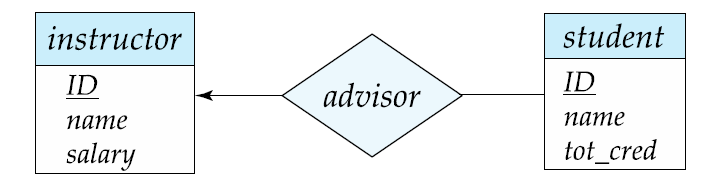
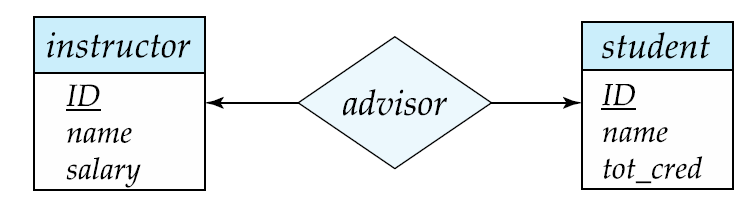
[데이터베이스] 데이터베이스 설계-릴레이션 스키마로의 변환

diff --git a/dongmin/Database System/database-design.md b/dongmin/Database System/database-design.md
@@ -186,4 +186,269 @@ ER Diagram에서는 다음과 같다.
 
         ![https://s3-us-west-2.amazonaws.com/secure.notion-static.com/5dfd24b0-f631-43d4-ac29-15b1ce444072/Untitled.png](./database-design/14.png)
 
-    ## 참가 제약조건(Participation Constraints)
+## 참가 제약조건(Participation Constraints)
+
+- **Total Participation(전체적 참가)**: 엔터티 집합의 모든 엔터티가 적어도 관계 집합의 하나의 관계에 참가한다.
+- **Partial Participation(부분적 참가)**: 어떤 엔터티들은 관계 집합 내의 어떤 관계에도 참가하지 않을 수도 있다.
+
+![https://s3-us-west-2.amazonaws.com/secure.notion-static.com/717ba0d5-3226-4c51-8049-0bb82eb6802f/Untitled.png](./database-design/15.png)
+
+  예) student의 모든 개체는 적어도 한 명의 교수와 연결된다. (전체; ERD에 double line으로 표시)
+
+ 교수가 반드시 학생을 지도할 필요는 없으므로 오직 일부분만이 student 개체와 연결된다. (부분)
+
+## 더 복잡한 제약 조건의 표기법
+
+ 관계를 나타내는 선에 최소 ~ 최대 대응수를 표기할 수 있다.
+
+- total participation의 최소 대응수는 1이다.
+- 최대 대응수 값이 1인 것은 엔터티가 최대 하나의 관계에만 참가한다는 의미이다.
+- 최대 값이 *인 것은 한계가 없다는 의미이다.
+
+![https://s3-us-west-2.amazonaws.com/secure.notion-static.com/33392817-bf77-4368-b482-f7c888a2160f/Untitled.png](./database-design/16.png)
+
+예) instructor 개체 집합은 0명 이상의 student와 연결될 수 있다.
+
+student 개체 집합은 오직 하나의 관계만 instructor의 개체들과 연결될 수 있다.
+
+## 삼진 관계에서의 대응수 제약조건
+
+- 삼진 관계에서는 대응수 제약조건을 나타내기 위해 최대 하나의 화살표를 허용한다.
+- 예를들어, proj_guide에서 instructor로의 화살표는 각 학생이 어떤 프로젝트의 지도자로서 딱 한명의 교수를 가질 수 있다는 의미이다.
+
+![https://s3-us-west-2.amazonaws.com/secure.notion-static.com/4cce18de-5ea1-4798-8847-1037d0515131/Untitled.png](./database-design/17.png)
+
+- 만약 화살표가 하나 이상이 있다면, 해석하는 두 가지 방법이 있다.
+    - 예) 엔터티 집합 A, B, C와 그들간의 삼진 관계 R에서 B와 C로의 화살표 관계가 있다고 하자.
+        1. 각 A 엔터티는 B와 C의 유일한 엔터티와 연관된다.
+        2. (A, B)의 각 엔터티 쌍은 C의 유일한 엔터티와 연결되고, 각 (A,C) 쌍은 유일한 B와 연결된다.
+    - 혼동을 피하기 위해 관계 집합에서 나가는 화살표는 **딱 하나만 허용**한다.
+
+---
+
+## 주 키(Primary Key)
+
+ 주 키는 엔터티와 관계 집합 내에서 각 엔터티나 관계들을 서로 구별하는 방법을 제공해준다.
+
+### 엔터티 집합 내에서의 주 키
+
+- 엔터티의 정의에서, 각 엔터티들은 구분된다.
+- 데이터베이스 관점에서, 그들의 차이점은 속성이라는 측면에서 분명히 드러나야 한다.
+- 엔터티의 속성 값의 값은 엔터티를 유일하게 식별하는 그런 것이어야 한다.
+- 엔터티 집합의 어떤 두 개의 엔터티도 모든 속성들에 대해 정확히 같은 값을 갖도록 하지 않는다.
+- 즉, 엔터티의 키란 **엔터티들을 서로 충분히 구분하는 속성 집합**이다.
+
+### 관계 집합 내에서의 주 키
+
+- 관계 집합에서 관계들을 구분하기 위해 관계 집합에 참여하는 엔터티의 각 주 키를 사용할 수 있다.
+    - R을 관계 집합이라 하고 엔터티 집합 E1, E2, ..., En을 포함한다고 하자.
+    - R의 주 키는 엔터티 집합 E1, E2, ..., En의 조합으로 구성된다.
+    - 만약 관계 집합 R이 그와 관련된 속성 a1, a2, ...am을 갖는다면, R의 주 키는 속성 a1, a2, ..., am을 포함한다.
+- 예) 관계 집합 "advisor"
+    - 주 키는 instructor의 ID와 student의 ID로 구성된다.
+- 관계 집합에서 주 키의 선택은 관계 집합의 대응수에 의존한다.
+
+### 이진 관계에서 주 키의 선택 (연관 관계의 주인)
+
+- **다대다 관계**: 참여하는 엔터티 집합 각각의 주 키의 합집합이 최소 슈퍼키이고 주 키로 선택된다.
+- **일대다 관계**: "다" 쪽의 주 키가 최소 슈퍼키이고 곧 주 키로 사용된다.
+- **다대일 관계**: "다" 쪽의 주 키가 최소 슈퍼키이고 곧 주 키로 사용된다.
+- **일대일 관계**: 두 쪽 모두 주 키가 최소 슈퍼키가 될 수 있고, 두 쪽 모두 주 키로 사용될 수 있다.
+
+### 약성 개체 집합 (Weak Entity Sets)
+
+ 대학 데이터베이스 시스템에서 section(분반)이라는 개체 집합을 예로 든다.
+
+- 분반은 course_id(강의id), semester(학기), year(연도), sec_id(분반id)로 구별된다.
+- 분반 개체들은 강의 개체들과 관계가 있다. 이러한 관계 집합 sec_course를 만든다고 가정한다.
+- 분반은 이미 course_id 속성을 갖고 있기 때문에, sec_course의 정보들은 중복된다.
+    1. 이 중복성을 해결하기 위해 관계 sec_course를 없애는 방법이 있다. 하지만 이럴 경우, 분반과 강의의 관계가 속성 내에서 암시적인 모습으로만 나타나고, 올바른 결과가 아니다.
+    2. 분반 엔터티에 course_id를 저장하지 않음으로써 해결할 수 있다. 오직 남아있는 section_id, year, semester만 저장한다. → section 개체 집합이 어떤 특정 section 개체를 유일하게 식별할 수 있는 속성들을 충분히 갖고 있는 상태가 아니게 된다.
+- sec_course 관계를, section 개체들을 유일하게 식별하는 데 요구되는 추가의 정보를 제공하는 특별한 관계로 간주한다. → **약성 개체 집합** (weak entity set)
+
+즉, 주 키를 형성하기 위한 충분한 속성들을 지니고 있지 않는 개체 집합을 **약성 개체 집합**,
+
+주 키를 가지고 있는 개체 집합을 강성 **개체 집합(strong entity set)**이라고 부른다.
+
+- 모든 약성 개체는 식별 개체와 연관된다; 즉 약성 개체는 식별 개체 집합에 **존재 종속적**이다.
+- 식별 개체 집합은 약성 개체 집합을 **소유한다**고 할 수 있다.
+- 약성 개체 집합과 식별 개체 집합을 연관짓는 관계는 **식별 관계(identifying relationship)**라 한다.
+- 식별 관계는 약성 관계 집합으로부터 식별 관계 집합으로의 다대일이고, 그 관계에서의 약성 관계 집합의 참가는 전체적이다.
+
+     예) section에 대한 식별 개체 집합은 course이고, section 개체들을 상응하는 course 개체들에 연관짓는 sec_course 관계는 식별 관계이다.
+
+- 약성 개체 집합이 주 키를 갖지 않지만, 그럼에도 불구하고 특정 강 개체에 종속하는 약성 개체 집합 내의 모든 개체들을 서로 구별할 수 있는 방법이 필요하다. → 약성 개체 집합의 **구별자 (discriminator)**
+
+     예) 약성 개체 집합 section의 구별자는 sec_id, year, semester 속성들로 이루어진다.
+
+- 약성 개체 집합의 구별자는 개체 집합의 **부분 키(partial key)**라고 불린다.
+- 약성 개체 집합의 주 키는 식별 개체 집합의 주 키와 약성 개체 집합의 구별자를 합하여 만들 수 있다.
+
+     예) section 개체 집합의 경우에 주 키는 { course_id, sec_id, year, semester } 이다.
+
+ERD는 다음과 같이 나타낸다.
+
+![https://s3-us-west-2.amazonaws.com/secure.notion-static.com/c6018312-a78c-482f-80f9-ae04b7386ded/Untitled.png](./database-design/18.png)
+
+---
+
+# 개체 집합에서의 중복된 속성 제거
+
+ 두 개의 개체 집합을 가정한다:
+
+- student: { ID, name, tot_cred, dept_name }
+- department: {dept_name, building, budget }
+
+ student와 department를 연결하는 stud_dept 관계 집합을 이용하여 각각의 학생은 하나의 연관된 부서를 가져야 한다는 사실을 모델링한다.
+
+![https://s3-us-west-2.amazonaws.com/secure.notion-static.com/ddd4a00c-b7e8-4319-a2ab-ec481e7280c8/Untitled.png](./database-design/19.png)
+
+ 그러면 dept_name 속성은 두 개체 집합에 동시에 나타난다. 이 속성은 department 개체 집합에 대한 주 키이기 때문에 student 개체 집합에서는 중복되어 있으며, 따라서 제거될 필요가 있다.
+
+## 대학 데이터베이스 전체 ERD
+
+ 개념적 설계가 끝난 모습이다.
+
+![https://s3-us-west-2.amazonaws.com/secure.notion-static.com/f75a5e72-7dd5-4c16-b01b-7ad23dbb4560/Untitled.png](./database-design/20.png)
+
+---
+
+# 릴레이션 스키마로의 축소
+
+ 
+
+ 엔터티 집합과 관계 집합은 일관된 방식인 **릴레이션 스키마**로 표현 가능하다. 릴레이션 스키마는 데이터베이스의 내용(요소)를 표현한다.
+
+ 즉, 데이터베이스 디자인의 각각의 개체 집합과 각각의 관계 집합을 위해 개체 집합이나 관계 집합의 이름을 붙인 고유한 릴레이션 스키마가 존재한다. 
+
+ ER 모델과 관계형 데이터베이스는 둘 다  실세계의 추상적이고 논리적인 표현이다. 두 가지 모델이 서로 비슷한 설계 원리를 지니므로, E-R 설계를 관계형 설계로 바꿀 수 있다. 각각의 스키마는 수많은 컬럼들을 가지고 그 컬럼의 이름은 유일하다.
+
+## 엔터티 집합 표현
+
+### 단순 속성들을 지닌 강성 엔터티 집합 표현
+
+ 강성 개체인 student 개체 집합을 생각한다.
+
+E라는 강성 개체 집합은 같은 개수의 속성들을 지닌 E라는 이름의 스키마로 표현할 수 있다.
+
+즉, student 개체 집합은 *student(ID, name, tot_cred)* 라는 릴레이션 스키마로 표현된다.
+
+다른 예)
+
+- *classroom(building, room_number, capacity)*
+- *department(dept_name, building, budget)*
+- *course (course_id, title, credits)*
+- *instructor (ID, name, salary)*
+- *student (ID, name, tot_cred)*
+
+### 약성 개체 집합의 표현
+
+ A를 a1, a2, ..., am의 속성들을 가지는 약성 개체 집합이라 하고, B는 A가 의존하는 강성 개체 집합이라 하자. B의 주 키(primary key)가 b1, b2, ..., bn의 속성들로 이루어져 있다면 개체 집합 A는 다음 속성들에 하나씩 대응하는 컬럼들을 가진 A라는 릴레이션 스키마로 표현된다.
+
+$\{ a_1,a_2,...,a_m\} \cup \{b_1,b_2,...,b_n\}$
+
+ 다시 말해서, 관계 집합의 모든 주 키와 약성 개체의 모든 속성들을 합친 속성들을 컬럼으로 나타낸 것이다.
+
+즉, section과 course의 예에서 section은 다음과 같이 표현된다.
+
+*section ( course_id, sec_id, semester, year)*
+
+![https://s3-us-west-2.amazonaws.com/secure.notion-static.com/ab1cd46f-5c3e-4ad4-acc9-74f1dbb69b82/Untitled.png](./database-design/18.png)
+
+### 복합 속성을 지닌 강성 개체 집합의 표현
+
+- 복합 속성 name에 대해 instructor를 위해 생성된 스키마는 first_name, middle_name, last_name 속성들을 가진다.
+- 복합 속성 address에 대해 생성된 스키마는 street, city, state, zip_code를 가진다.
+- street는 또 다시 street_number, street_name, apt_number로 대체된다.
+
+이들을 고려하여 설계된 릴레이션 스키마는 다음과 같다. 다중값 속성은 포함되지 않는다.
+
+ *instructor (ID, first_name, middle_name, last_name, street_number, street_name, apt_number, city, state, zip_code, date_of_birth)*
+
+- 다중값 속성인 M을 위해서는 테이블 관계형 스키마 R을 만들어 주는데, R에서는 M에 대응하는 속성 A와 M이 속성으로 존재하는 개체 집합이나 관계 집합의 주 키에 대응하는 속성들을 가지게 된다.
+
+ 다중값 속성인 phone_number를 위한 릴레이션 스키마는 다음과 같다.
+
+ *instructor_phone (ID, phone_number)*
+
+![https://s3-us-west-2.amazonaws.com/secure.notion-static.com/869c809e-0e1c-4ead-9ea3-2d58ce6f8953/Untitled.png](./database-design/8.png)
+
+## 관계 집합의 표현
+
+ 
+
+ 관계 집합에 대한 주 키를 선택하는 방법은 다음과 같았다.
+
+- 이진 다대다 관계에서는 개체 집합에 참여하는 속성들 중에서 주 키의 합집합이 주 키가 된다.
+- 이진 일대일 관계 집합에서는 한 쪽의 개체 집합의 주 키가 주 키로 선택된다. 이때 선택은 임의로 행해진다.
+- 이진 다대일이나 일대다 관계 집합에서는 관계 집합의 "다(many)"인 부분의 개체 집합 주 키가 주 키로 제공된다.
+- 간선에 어떤 화살표도 없는 n항 관계 집합에서는 참여하는 모든 개체 집합들의 주 키 속성들의 합집합이 주 키가 된다.
+- 간선에 화살표가 있는 n항 관계 집합에서는 관계 집합에서 "화살표"가 없는 부분의 개체 집합의 주 키가 스키마의 주 키로 제공된다. 릴레이션 관계 밖으로는 오직 한 개의 화살표만 허용된다.
+
+ 예) 관계 집합 advisor를 위한 릴레이션 스키마:
+
+*advisor(s_id, i_id)*
+
+ advisor 관계 집합에서 student는 instructor로의 다대일 관계이기 때문에 advisor 스키마의 주 키는 s_id이다. 
+
+![https://s3-us-west-2.amazonaws.com/secure.notion-static.com/3b85c5c9-4c65-4e79-9d09-6ff02b93b284/Untitled.png](./database-design/21.png)
+
+ 나머지 예들,
+
+- *teaches (ID, course_id, sec_id, semester, year)*
+- *takes (ID, course_id, sec_id, semester, year, grade)*
+- *prereq (course_id, prereq_id)*
+- *sec_course (course_id, sec_id, semester, year)*
+- *sec_time_slot (course_id, sec_id, semester, year, time_slot_id)*
+- *sec_class (course_id, sec_id, semester, year, building, room_number)*
+- *inst_dept (ID, dept_name)*
+- *stud_dept (ID, dept_name)*
+- *course_dept (course_id, dept_name)*
+
+### 스키마의 중복성
+
+ 약성 개체 집합과 그에 대응하는 강성 개체 집합을 연결하는 관계 집합은 특별하다.
+
+ 이 관계는 다대일 관계에 있고 설명 속성들을 갖지 않는다. 그리고 약성 개체 집합의 주 키는 강성 개체 집합의 주 키를 포함한다.
+
+ 예) 약성 개체 집합 section은 강성 개체 집합인 coruse에 sec_course라는 관계 집합으로 의존한다.
+
+- section의 주 키는 { course_id, sec_id, semester, year }이고,
+- course의 주 키는 { course_id } 이다.
+- sec_course는 설명 속성을 가지지 않으므로 sec_course 스키마는 course_id, sec_id, semester, year 속성들을 가진다.
+
+ sec_course 릴레이션의 모든 (course_id, sec_id, semester, year)의 조합은 section 스키마에 대한 릴레이션에도 존재하고,  그 역도 성립한다. 그러므로 sec_course 테이블은 불필요하게 중복되었다.
+
+ 일반적으로 약성 개체 집합을 그에 대응하는 강성 집합에 연결하는 **관계 집합을 위한 테이블은** 중복된 것이고, **테이블 표현에서 보일 필요가 없다.**
+
+### 스키마의 조합
+
+ 개체 집합 A에서 개체 집합 B로 가는 다대일 관계 집합 AB를 생각하자.
+
+ 관계형 스키마 구축 알고리즘을 이용하면 A, B, AB의 3개의 스키마를 얻을 수 있다. **A가 관계 AB에 전체적으로 참가**한다고 가정하자. 즉, 개체 집합 A의 모든 개체 a는 관계 AB에 참가한다. 
+
+ 그러면 **스키마 A와 스키마 AB를 조합하여 두 스키마의 열들의 합집합으로 구성되는 하나의 스키마**를 만들 수 있다. 조합된 스키마의 주 키는 관계 집합 스키마가 통합되어 이루어진 그 스키마의 개체 집합의 주 키이다.
+
+- inst_dept (AB), instructor (A), department (B)
+
+    inst_dept 스키마는 instructor 스키마와 조합될 수 있다. instructor 스키마는 
+    *{ ID, name, dept_name, salary }* 속성으로 이루어진다.
+
+- stud_dept (AB), student (A), department (B)
+
+    stud_dept 스키마는 student 스키마와 조합될 수 있다. 결과로 생성되는 student 스키마는 
+    *{ ID, name, dept_name, tot_cred }* 속성으로 이루어진다.
+
+![https://s3-us-west-2.amazonaws.com/secure.notion-static.com/82ff4a6a-12ee-4cb3-a37f-8cf7c395c8fa/Untitled.png](./database-design/22.png)
+
+ 일대일 관계의 경우에도 관계 집합에 대한 릴레이션 스키마가 개체 집합의 한쪽의 스키마와 결합될 수 있다.
+
+ 참여가 부분적일지라도 null 값을 사용하여 스키마를 조합할 수도 있다. 다대일/일대다의 경우에도 마찬가지다. inst_dept가 만약 부분적이었다면, 연관된 부서가 없는 교수들에 대한 dept_name 속성에 대해 null 값을 저장한다.
+
+ 외래 키 제약조건에 대해 생각해보자.
+
+ 관계 집합에 참여하는 각각의 개체 집합들을 참조하는 외래 키 제약조건이 있었을 것이다. 릴레이션 집합 스키마가 합쳐지는 스키마의 개체 집합을 참조하는 제약조건을 삭제하고 조합된 스키마에 다른 외래 키 제약조건을 추가한다.
+
+ 예) inst_dept는 department 릴레이션을 참조하는 dept_name 속성의 외래 키 제약조건을 가지고 있다.이 외래 키 제약조건은 inst_dept에 대한 스키마가 instructor로 합쳐질 때 instructor 릴레이션에 추가된다.
+
+---
